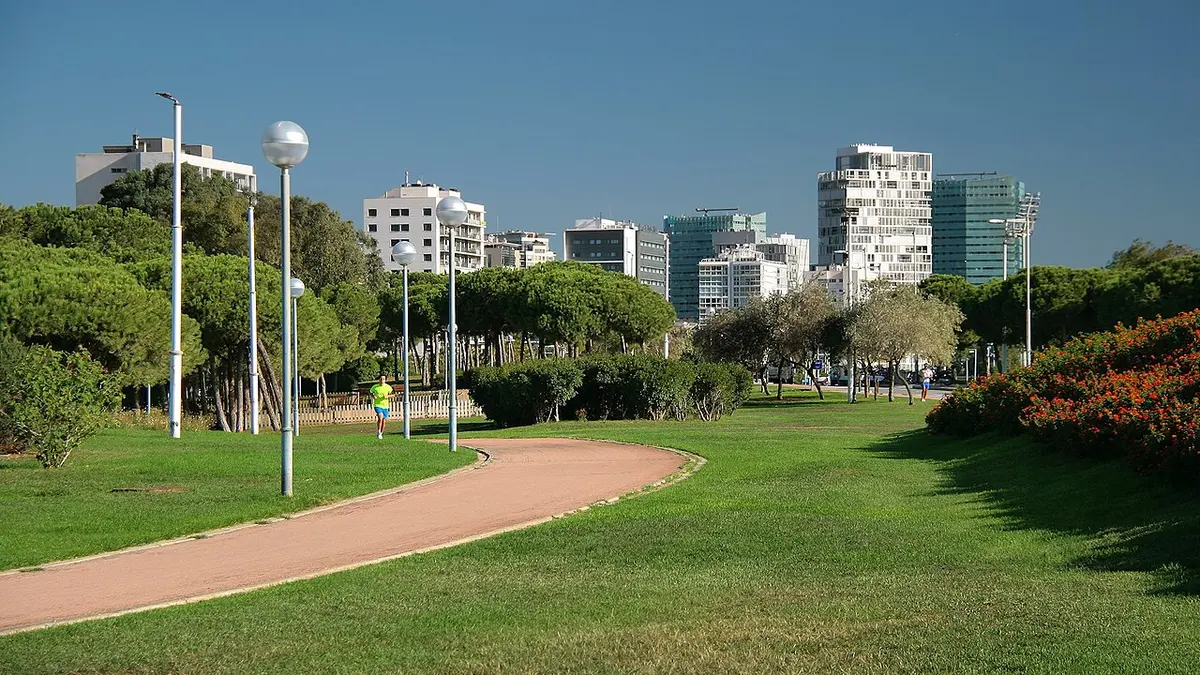
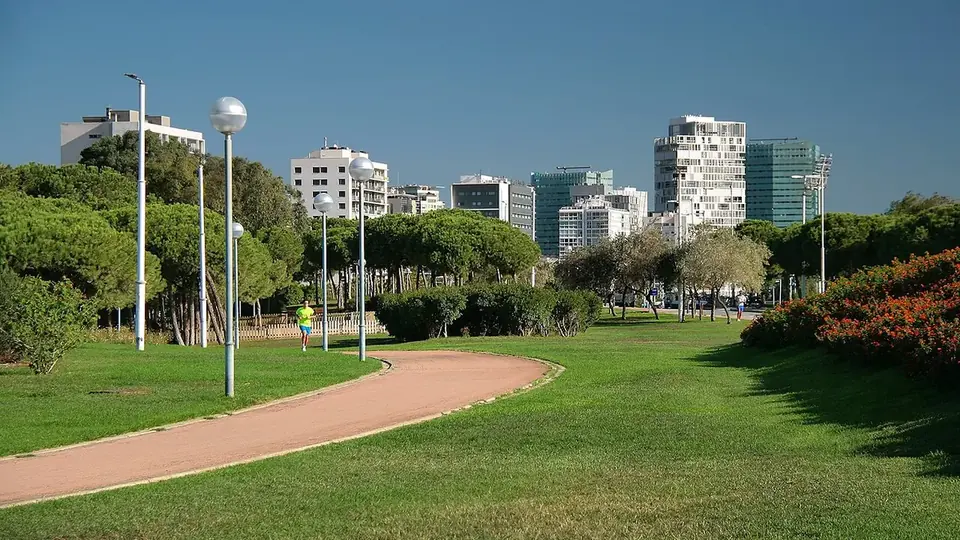
feat: improve SEO, performance and 404 handling
- Shorter description (≤155 chars) and a title with "Club de running"
- robots meta with max-image-preview:large; noindex on the 404
- Richer SportsClub data: logo, alternateName, hasMap, isAccessibleForFree,
  valid opening time, sameAs limited to public profiles
- Sitemap lastmod
- Custom 404 page served with 404 status (not_found_handling: 404-page)
- Lazy-load the scroll video posters so they don't compete with the LCP
- Race images resized to 960×540 (616 KB → 370 KB)
- Hero preload moved to the home page through a head slot

diff --git a/src/consts.ts b/src/consts.ts
@@ -15,9 +15,13 @@ export const COLORS = {
 export const SITE = {
   name: 'Run with Le Tigre',
   shortName: 'Le Tigre Run',
-  title: 'Run with Le Tigre · Running Community del Prat de Llobregat',
+  /** Nombre completo de la comunidad (`alternateName` en los datos estructurados) */
+  legalName: 'Le Tigre Running Community',
+  /** ≤ 60 caracteres: Google corta los títulos más largos */
+  title: 'Run with Le Tigre · Club de running en El Prat de Llobregat',
+  /** ≤ 155 caracteres: Google corta las descripciones más largas */
   description:
-    'Club de running del Prat de Llobregat. Salimos todos los sábados a las 8:00 desde Le Tigré Cakes. Ritmo 5:30-5:45 min/km. Café de especialidad antes de salir y croissants a la vuelta, cortesía de la casa.'
+    'Club de running gratis en El Prat de Llobregat. Sábados a las 8:00 desde Le Tigré Cakes, a 5:30-5:45 min/km, con café antes y croissants a la vuelta.'
 } as const
 
 export const CLUB = {

diff --git a/README.md b/README.md
@@ -79,7 +79,7 @@ export const SPECIAL_RUNS = [
 }
 ```
 
-Cada carrera necesita una imagen distinta en `public/images/races/`. Si el cupo del grupo está lleno, añade `status: 'full'`.
+Cada carrera necesita una imagen distinta en `public/images/races/`, en WebP de 960×540 (`magick foto.jpg -resize 960x540^ -gravity center -extent 960x540 -quality 76 nombre.webp`). Si el cupo del grupo está lleno, añade `status: 'full'`.
 
 ## Assets
 
